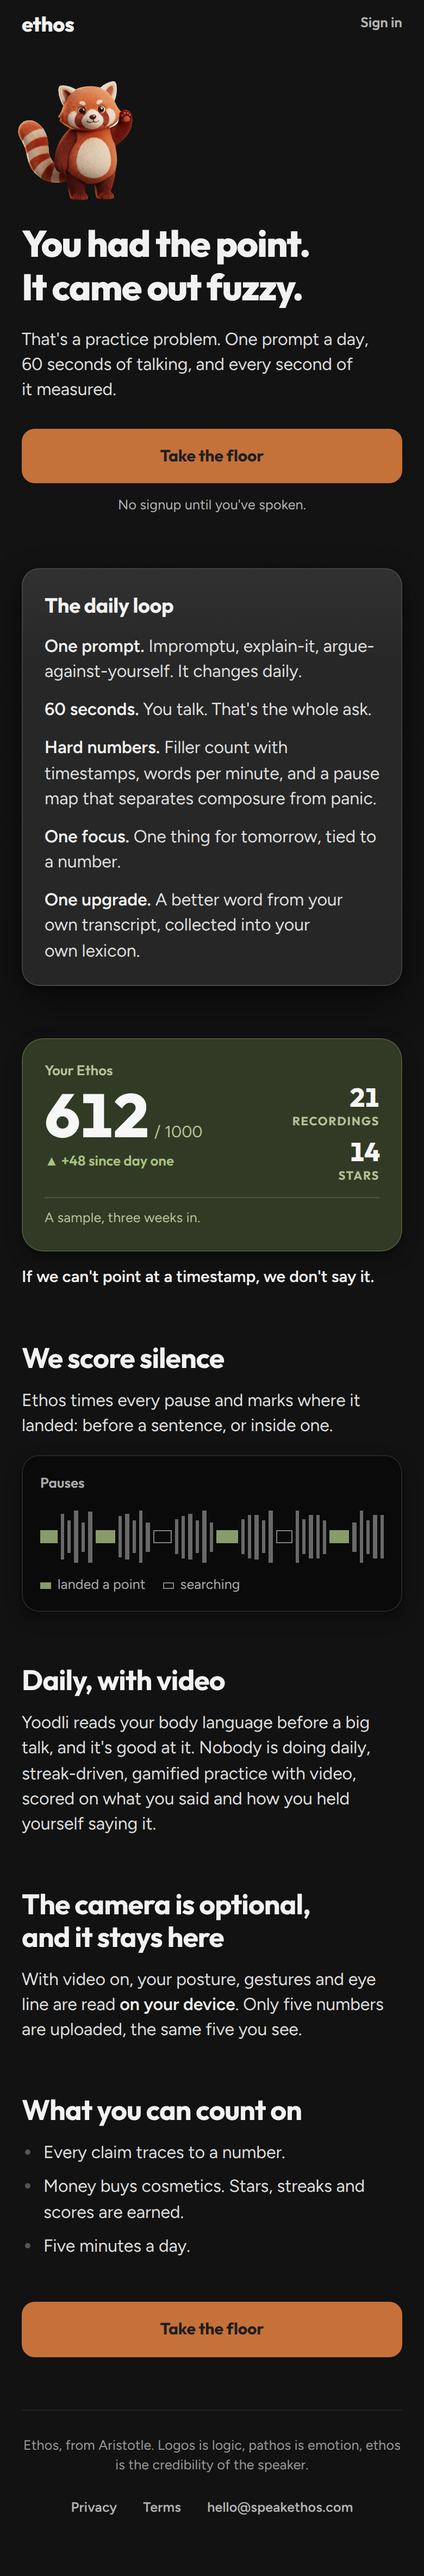
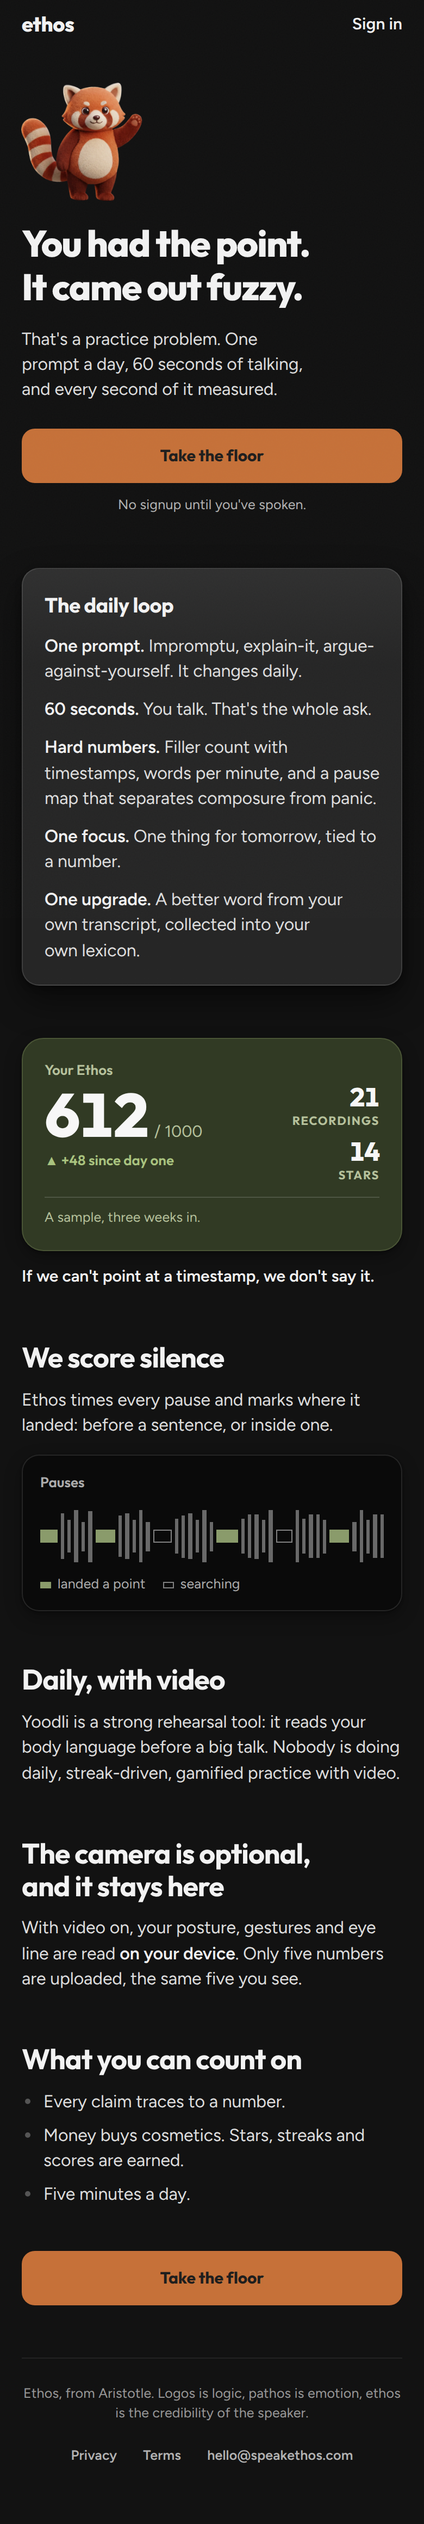
B11: the look loop on About: the bar's own Sign in, a balanced hero line, the Yoodli paragraph under 25 words
Sign in takes .screen-bar-link (15/600 ink, 44px) so the top row speaks the
app's bar grammar; the hero sub balances to three even lines; the rehearsal
paragraph keeps Yoodli and the tested claim verbatim in 24 words. Squint shots.

Claude-Session: https://claude.ai/code/session_01KQpi1wPL2sdqgKKvt94vrP

diff --git a/app/(marketing)/about/page.tsx b/app/(marketing)/about/page.tsx
@@ -59,7 +59,10 @@ export default function About() {
   const stranger = (
     <div className="flex min-h-11 items-center justify-between">
       <div className="font-display text-lead font-extrabold">ethos</div>
-      <Link href="/signin" className="text-link">
+      {/* The bar's own trailing link (15/600 ink, a 44px target), so
+          this row speaks the app's bar grammar; -mr-2 sets the word on
+          the gutter. */}
+      <Link href="/signin" className="screen-bar-link press -mr-2">
         Sign in
       </Link>
     </div>
@@ -78,7 +81,7 @@ export default function About() {
       <h1 className="large-title mt-4">
         You had the point. <span className="block">It came out fuzzy.</span>
       </h1>
-      <p className="mt-4 text-read text-stone-800">
+      <p className="mt-4 text-balance text-read text-stone-800">
         That&apos;s a practice problem. One prompt a day, 60 seconds of
         talking, and every second of it measured.
       </p>
@@ -153,10 +156,9 @@ export default function About() {
        */}
       <h2 className="font-display mt-12 text-title">Daily, with video</h2>
       <p className="mt-3 text-read text-stone-800">
-        Yoodli reads your body language before a big talk, and it&apos;s
-        good at it. Nobody is doing daily, streak-driven, gamified practice
-        with video, scored on what you said and how you held yourself
-        saying it.
+        Yoodli is a strong rehearsal tool: it reads your body language
+        before a big talk. Nobody is doing{" "}
+        daily, streak-driven, gamified practice with video.
       </p>
 
       <h2 className="font-display mt-12 text-title">
